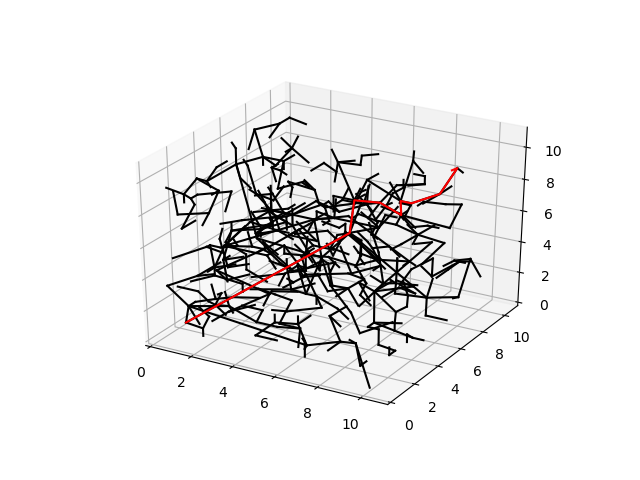
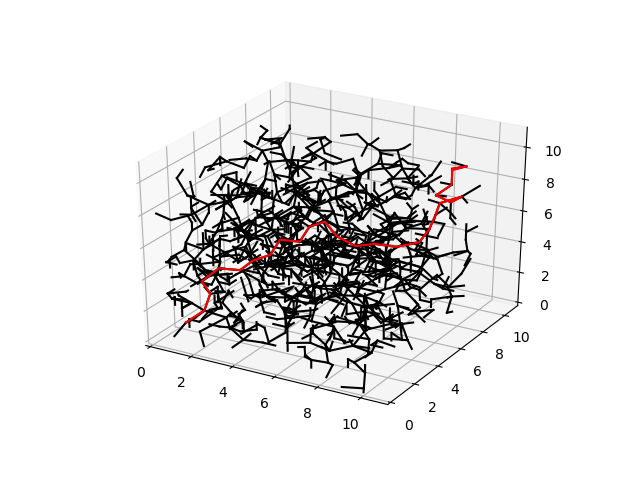
adding files

Changed region(s): [[0.25, 0.2188, 0.75, 0.8125]]

diff --git a/RRT_no_obstacles/RRT.py b/RRT_no_obstacles/RRT.py
@@ -36,6 +36,17 @@ def goalcheck_circle(x, y, z, goal_x, goal_y, goal_z):
     else:
         return False
 
+def cost2go(pt1, pt2):
+    dist = math.sqrt((pt2[0] - pt1[0]) ** 2 + (pt2[1] - pt1[1]) ** 2 + (pt2[2] - pt1[2]) ** 2) 
+    return dist
+
+def max_step_prop(j, i):
+    k = (i[0] - j[0], i[1] - j[1], i[2] - j[2])
+    k_mod = math.sqrt(k[0]**2 + k[1]**2 + k[2]**2)
+    vec = (k[0]/k_mod, k[1]/k_mod, k[2]/k_mod)
+    new_point = (j[0]+1*vec[0], j[1]+ 1*vec[1], j[2]+1*vec[2])
+    return new_point
+
 
 start = (1,1,1)
 goal_x, goal_y, goal_z = (9,9,9)
@@ -59,20 +70,30 @@ while(goalcheck_circle(goal_x, goal_y, goal_z, seed[0], seed[1], seed[2]) == Fal
     seed = generate_seed()
     print("generated_seed", seed)
     if seed not in visited_nodes:
-        visited_nodes.add(seed)
+        
         all_nodes.insert(0, seed)    
         X = np.array(all_nodes)
         tree = KDTree(X, leaf_size=2) 
         dist, ind = tree.query(X[:1], k=2)  
         p = ind[0][1]
         parent = all_nodes[p]
+
+
+        if (cost2go(parent,seed) > 1):
+            seed = max_step_prop(parent, seed)
+            seed = (round(seed[0], 1), round(seed[1], 1), round(seed[2], 1))
+            all_nodes[0] = seed
+            visited_nodes.add(seed)
+        else:
+            visited_nodes.add(seed)
+
         parent_dict[seed] = parent 
         print("parent", parent)
         print("seed", seed)
 
         parent_list.append((parent[0], parent[1], parent[2]))
         seed_list.append((seed[0], seed[1], seed[2]))
-        # ax.plot3D((parent[0],seed[0]), (parent[1], seed[1]), (parent[2], seed[2]), 'black')
+        ax.plot3D((parent[0],seed[0]), (parent[1], seed[1]), (parent[2], seed[2]), 'black')
         # plt.show()
         print("\n")
 
@@ -100,14 +121,14 @@ y_path = [path[i][1] for i in range(len(path))]
 z_path = [path[i][2] for i in range(len(path))]
 
 
-l = 0
+# l = 0
 
-while l < len(seed_list):
-            # ax.plot3D((parent[0],seed[0]), (parent[1], seed[1]), (parent[2], seed[2]), 'black')
-    ax.plot3D((parent_list[l][0], seed_list[l][0]), (parent_list[l][1], seed_list[l][1]), (parent_list[l][2], seed_list[l][2]),  'black')
-    l = l + 1
-    plt.show()
-    plt.pause(0.000000000000000000000000000000000001)
+# while l < len(seed_list):
+#             # ax.plot3D((parent[0],seed[0]), (parent[1], seed[1]), (parent[2], seed[2]), 'black')
+#     ax.plot3D((parent_list[l][0], seed_list[l][0]), (parent_list[l][1], seed_list[l][1]), (parent_list[l][2], seed_list[l][2]),  'black')
+#     l = l + 1
+#     plt.show()
+#     plt.pause(0.000000000000000000000000000000000001)
 
 ax.plot3D(x_path, y_path, z_path, "-r")
 print(path)
